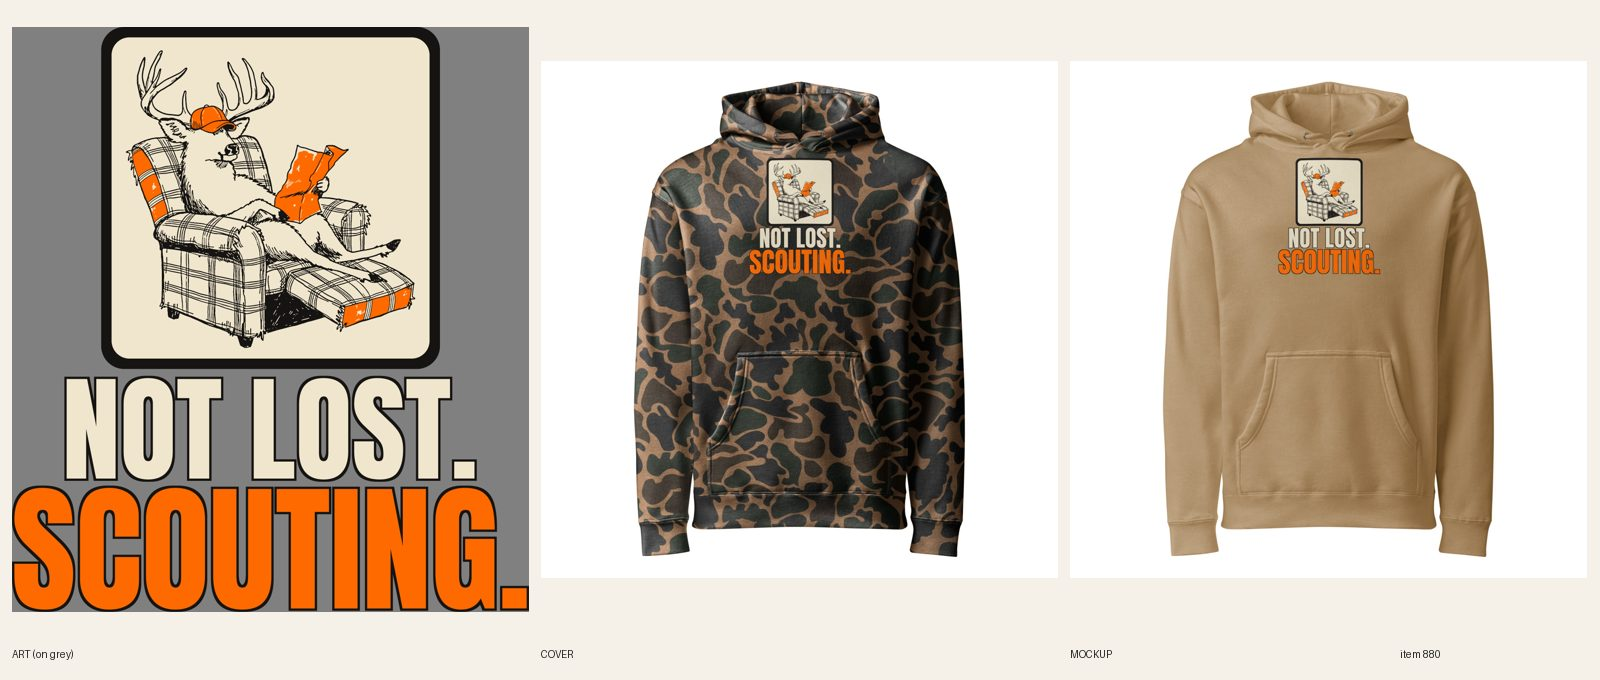
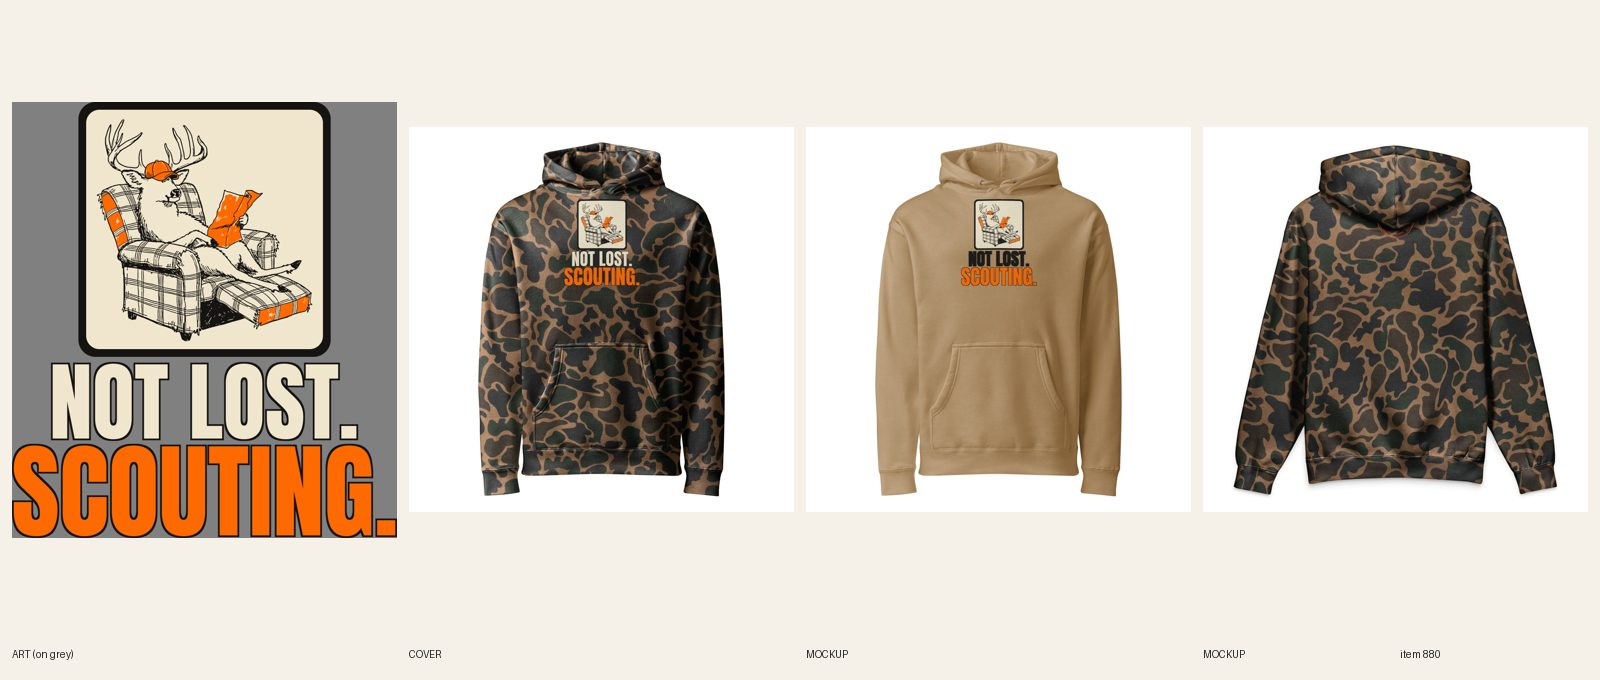
[B] review 880 Not Lost Scouting camo hoodie

diff --git a/docs/pipeline/880-camo-redo-not-lost-scouting.md b/docs/pipeline/880-camo-redo-not-lost-scouting.md
@@ -1,4 +1,4 @@
-status: REDO
+status: REVIEW
 lane: B
 type: redo
 id: 880
@@ -23,3 +23,4 @@ push: camo
 - 2026-10-21 09:45 UTC director: brief written, READY (camo redo, lane B, push: camo; graded from docs/review/496.jpg).
 - 2026-10-21 10:40 UTC [B]: REDO to the R11.13 patch standard, IN PLACE on the live product (same handle, URL, collections, stays ACTIVE). Print = the old live art re-inked by designs/camo_patch.py (print-prep only; fal wallet exhausted): buck in the plaid recliner with the orange cap and map, 3 solid inks (black, bone, blaze orange) on ONE bone patch with a ~0.2 in black outline; baked lettering cropped off; lettering NOT LOST. (bone) / SCOUTING. (blaze orange) in Anton with a dark keyline, widths (7h) 2702 / 3385 px (punch 125%). FW 1500 TOP 0. Sandstone is a solid tan blank; the bone patch and lettering read on it. R7.7: Duck Camo + Sandstone x XS-3XL = 14/14 synced on default file 1091025440, back logo 1080398177 on 14/14. Mockups remade, media replaced and attached, copy rewritten against the new art (no cream backing line); docs/review/880.jpg shows Duck + Sandstone. Cohesion audit --handle PASS (0 warn).
 - 2026-10-21 10:40 UTC director: REDO. 1. R5.3.8 (light blanks list includes Sandstone): NOT LOST. is cream with a dark keyline on Sandstone; give Sandstone its own file with NOT LOST. in solid black or navy with open counters (SCOUTING. orange can stay), or swap Sandstone for a camo color (Forest or Deadwood) per the camo push. Everything else passes (patch, recliner buck, punch 125%). Re-sync R7.7 N/N, new mockup and sheet. $0 fal.
+- 2026-10-21 15:35 UTC [B]: REDO 2 done ($0 fal). Director note 1 (R5.3.8): Sandstone now has its own file docs/print-files/880-sand.png (md5 51686ab1... vs 49ac16b2... for 880-camo.png; viewed: NOT LOST. is solid near-black Anton with its dark keyline, open counters on the O's, SCOUTING. blaze orange unchanged, patch and art unchanged). Light file: Sandstone on 1091137067, headline fill near-black (22,20,18). Duck Camo keeps the bone file 1091025440 (bone on camo reads). R7.7: 14/14 synced: Duck Camo 7 on 1091025440, Sandstone 7 on 1091137067, back logo 1080398177 on 14/14. New Sandstone mockup replaced in place (phone-size read OK: black NOT LOST., orange SCOUTING. clear on tan); Duck Camo mockup unchanged (print file unchanged). Punch stays 125% (2702/3385 px). Copy: Story names the ink per color (bone on Duck Camo, black on Sandstone); FAQ wash line names bone, black and blaze orange. Cohesion audit --handle PASS (0 warn). docs/review/880.jpg shows Duck Camo, Sandstone, back.

diff --git a/docs/intake-log.md b/docs/intake-log.md
@@ -1,4 +1,5 @@
 RUNNING helper since 2026-10-21 13:50 UTC
+2026-10-21 15:35 UTC — [B] REVIEW #880 Men's Hunting Not Lost. Scouting. Camo Hoodie (REDO 2: Sandstone light-ink file, 7 on 1091025440 + 7 on 1091137067, punch 125%). fal $0.
 RUNNING lane E since 2026-10-21 13:48 UTC
 RUNNING lane B since 2026-10-21 13:35 UTC
 2026-10-21 14:50 UTC — [B] REVIEW #877 Women's Hunting Ducks in a Row Camo Hoodie (REDO 2: thick orange ducklings, one walking off, no butterfly; 14/14 on 1091133747; punch 100%; subject 75%). fal $0.04.
